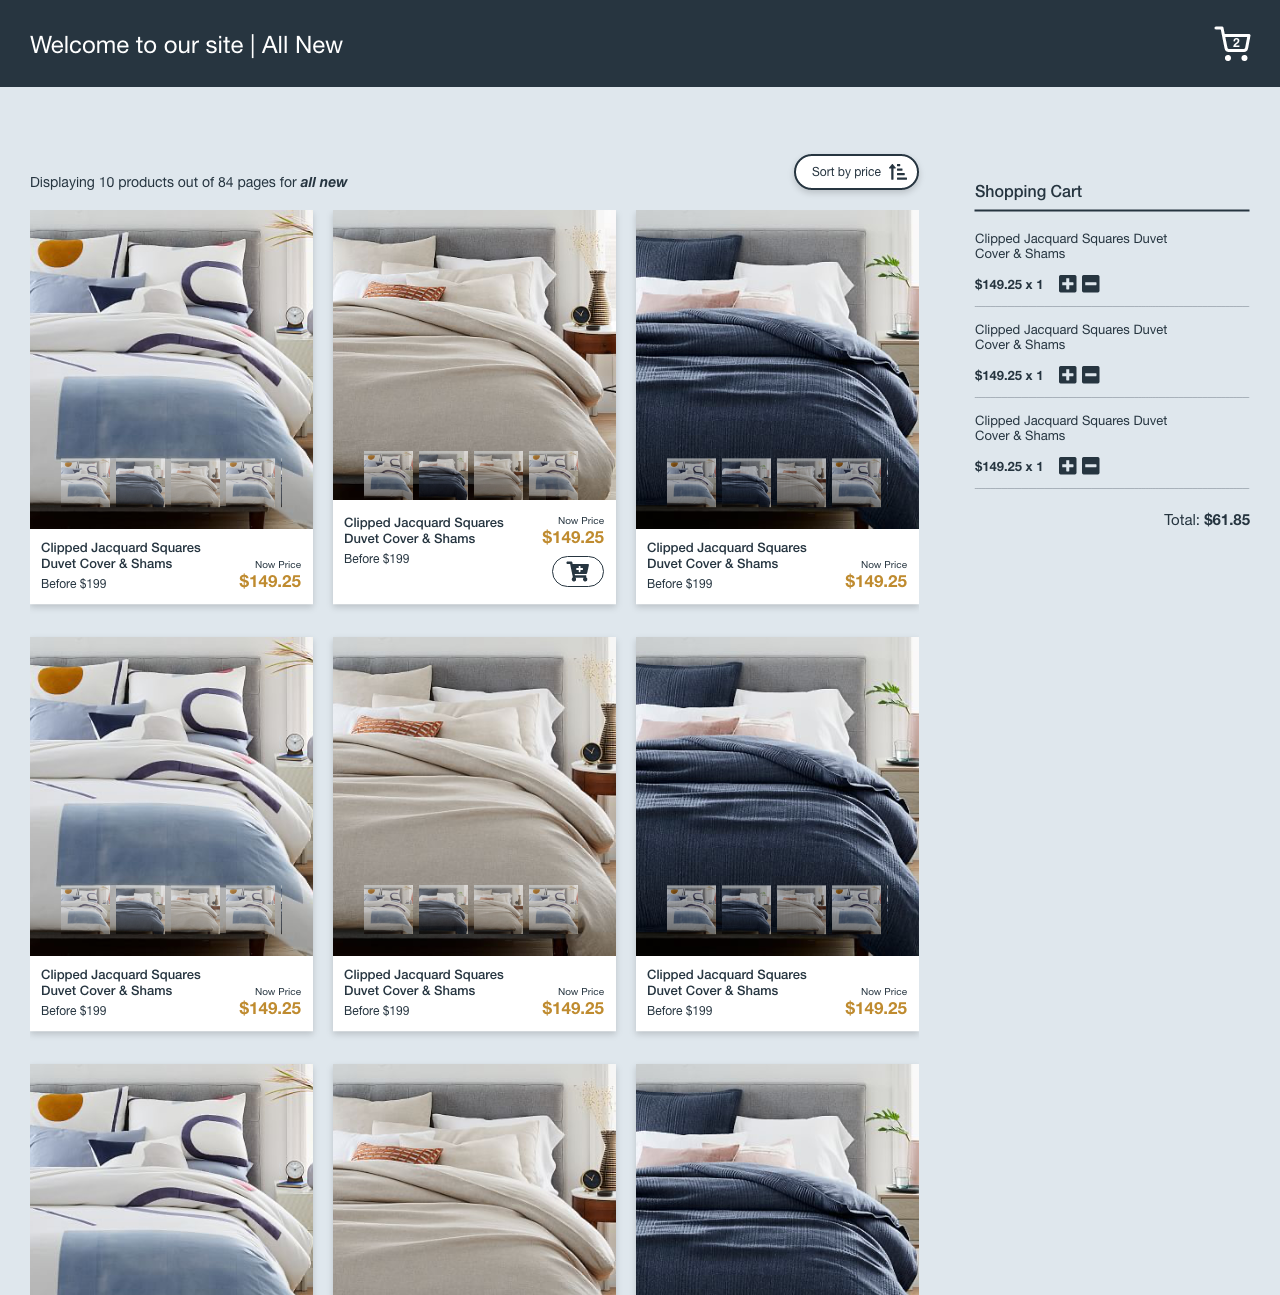
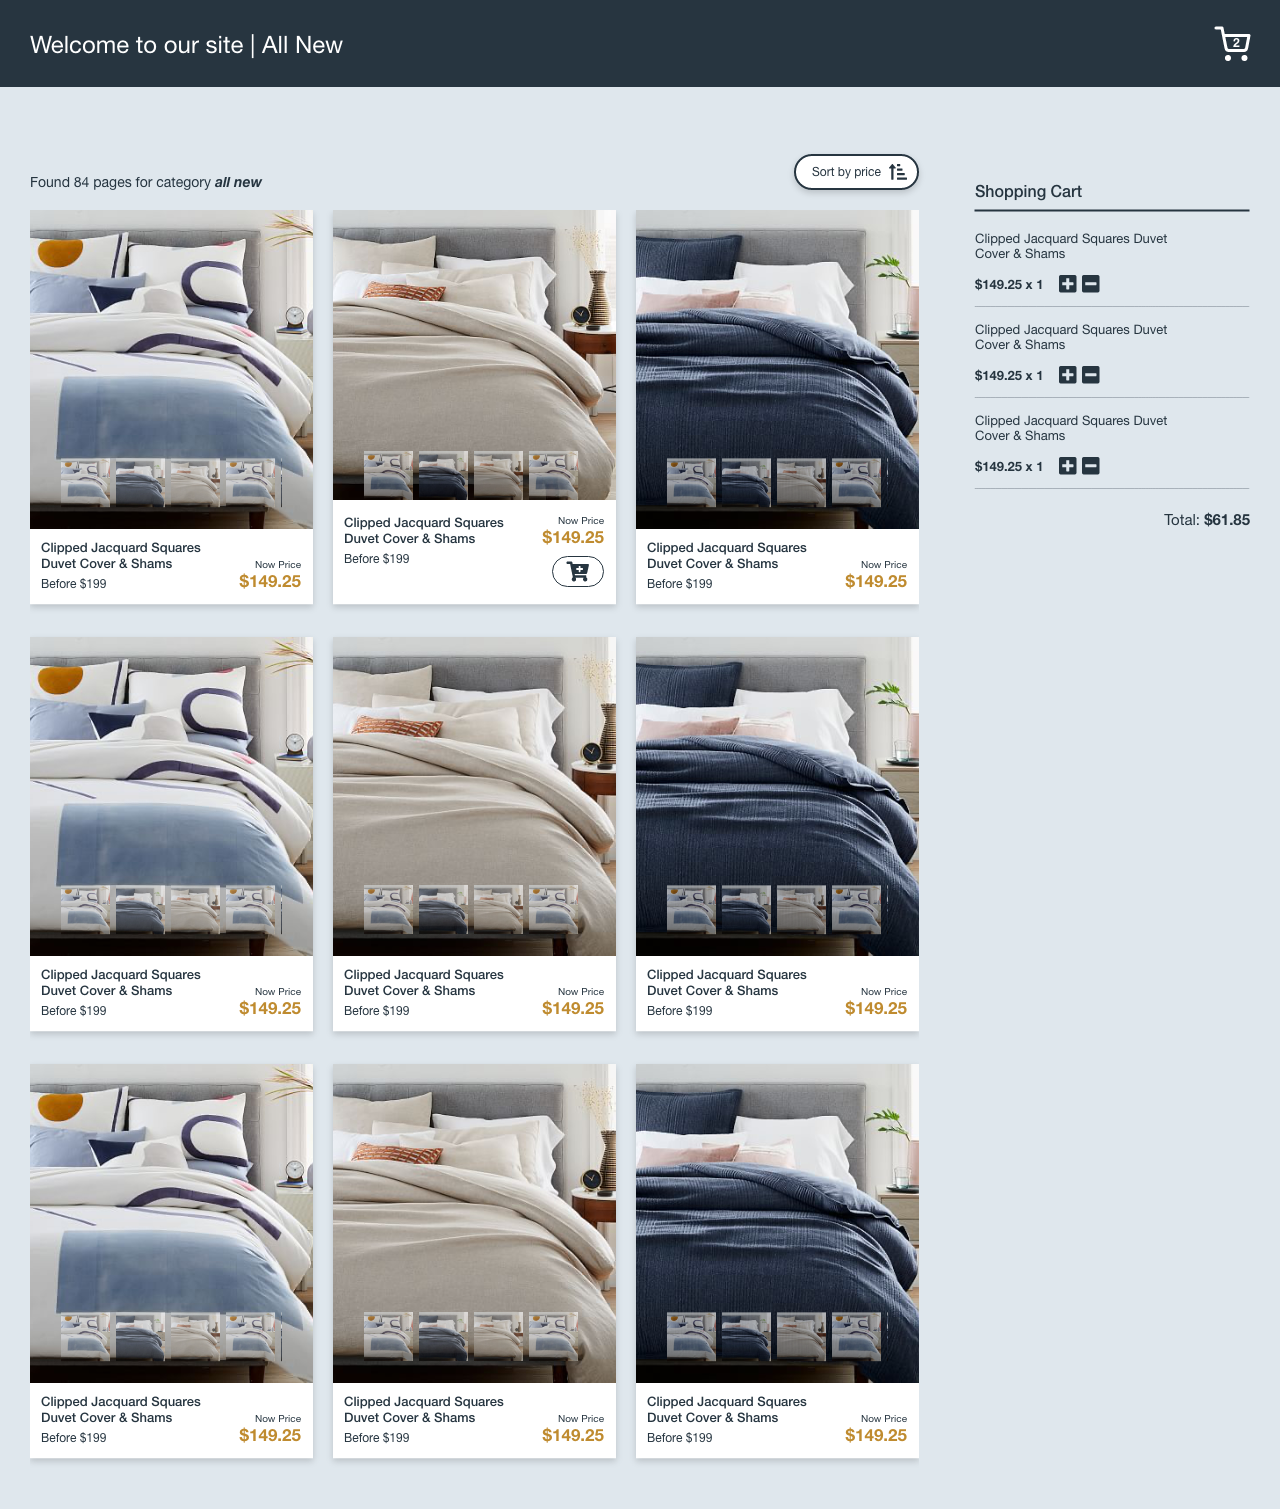
Implemented carousel and sorting

diff --git a/src/components/overview/Overview.vue b/src/components/overview/Overview.vue
@@ -1,34 +1,39 @@
 <template>
   <div>
-    <app-header :name="products.name"></app-header>
-    <div class="row product-list">
-      <div class="column col-4" v-for="item in products.groups" :key="item.id">
-        <product-card :product="item" :currency="currency"></product-card>
-      </div>
-    </div>
-    <router-view></router-view>
+    <app-header :name="category.name"></app-header>
+    <products-list
+      :products="products"
+      :currency="currency"
+      :totalPages="category.totalPages"
+      :categoryName="category.name"
+      @sortPrice="sortByPrice"
+    ></products-list>
     <shopping-cart></shopping-cart>
+    <router-view :products="products"></router-view>
   </div>
 </template>
 
 <script>
 import axios from "axios";
-import ProductCard from "../product-card/ProductCard.vue";
 import AppHeader from "../app-header/AppHeader.vue";
+import ProductsList from "../products-list/ProductsList.vue";
 import ShoppingCart from "../shopping-cart/ShoppingCart.vue";
+import ProductCarousel from "../product-carousel/ProductCarousel.vue";
 
 export default {
   data() {
     return {
+      category: [],
       products: [],
-      currency: "$"
+      currency: "$",
     };
   },
 
   components: {
-    ProductCard,
     ShoppingCart,
-    AppHeader
+    AppHeader,
+    ProductsList,
+    ProductCarousel
   },
 
   methods: {
@@ -36,11 +41,25 @@ export default {
       axios
         .get("/products")
         .then(res => {
-          this.products = res.data;
+          this.category = res.data;
+          this.products = res.data.groups;
         })
         .catch(reject =>
           console.error("The request has failed due to ", reject)
         );
+    },
+    
+    sortByPrice(sortByAsc) {
+      let products = Array.from(this.products);
+      
+      try {
+        products.sort((a, b) => a.priceRange.selling.low - b.priceRange.selling.low);
+        if(!sortByAsc) products.reverse();
+      } catch(error) {
+        console.error('Sorting failed due to ', error);
+      }
+
+      this.products = products;
     }
   },
 

diff --git a/src/components/products-list/ProductsList.vue b/src/components/products-list/ProductsList.vue
@@ -1,0 +1,83 @@
+<template>
+  <main class="row product-list">
+    <div class="col-12">
+      <div class="row products-header">
+        <p>
+          Displaying {{ products && products.length }} products for
+          <b>{{ categoryName }}</b>
+        </p>
+        <button @click="sortPrice">
+          Sort by price
+          <v-icon name="trello"></v-icon>
+        </button>
+      </div>
+      <div class="row">
+        <div class="column col-4" v-for="item in products" :key="item.id">
+          <product-card :product="item" :currency="currency"></product-card>
+        </div>
+      </div>
+    </div>
+  </main>
+</template>
+
+<script>
+import ProductCard from "../product-card/ProductCard.vue";
+
+export default {
+  props: ["products", "currency", "totalPages", "categoryName"],
+  data() {
+    return {
+      sortByAsc: false
+    }
+  },
+  components: {
+    ProductCard
+  },
+  methods: {
+    sortPrice() {
+      this.sortByAsc = !this.sortByAsc;
+      this.$emit('sortPrice', this.sortByAsc);
+    }
+  },
+};
+</script>
+
+<style lang="scss">
+@import "../../scss/_variables";
+
+.products-header {
+  padding: em(10);
+  align-items: flex-end;
+
+  p {
+    font-size: 14px;
+  }
+
+  button {
+    border: 2px solid $primary-color;
+    padding: em(8) em(12);
+    border-radius: 20px;
+    font-size: em(12);
+    display: flex;
+    box-shadow: 0 3px 6px rgba(0, 0, 0, 0.1);
+    align-items: center;
+    cursor: pointer;
+    justify-content: space-between;
+    background-color: #fff;
+    width: 120px;
+
+    &:hover {
+      background-color: $primary-color;
+      color: #fff;
+
+      .icon {
+        color: #fff;
+      }
+    }
+
+    &:focus {
+      outline: none;
+    }
+  }
+}
+</style>

diff --git a/src/components/product-carousel/ProductCarousel.vue b/src/components/product-carousel/ProductCarousel.vue
@@ -40,10 +40,11 @@
 
 <script>
 export default {
-  props: ["id", "images"],
+  props: ["id", "images", "products"],
 
   data() {
     return {
+      imgGroup: this.images,
       slideCount: 0,
       currentSlide: "",
       nextSlide: "",
@@ -52,15 +53,21 @@ export default {
     };
   },
 
+  watch: {
+    products(products) {
+      this.getProductById(products, this.id);
+    }
+  },
+
   methods: {
     closeModal() {
       this.$router.push("/");
     },
 
     createSlides() {
-      this.nextSlide = this.getNextSlide(this.slideCount, this.images);
-      this.prevSlide = this.getPrevSlide(this.slideCount, this.images);
-      this.currentSlide = this.images[this.slideCount];
+      this.nextSlide = this.getNextSlide(this.slideCount, this.imgGroup);
+      this.prevSlide = this.getPrevSlide(this.slideCount, this.imgGroup);
+      this.currentSlide = this.imgGroup[this.slideCount];
     },
 
     getNextSlide(slideCount, images) {
@@ -75,11 +82,17 @@ export default {
 
     getPrevSlide(slideCount, images) {
       return slideCount > 0 ? images[slideCount - 1] : "";
+    },
+
+    getProductById(products, id) {
+      let product = products.filter(product => id === product.id);
+      this.imgGroup = [product[0].hero, ...product[0].images];
+      this.createSlides();
     }
   },
 
   created() {
-    return this.images && this.createSlides();
+    return this.imgGroup && this.createSlides();
   },
 
   mounted() {

diff --git a/src/components/app-header/AppHeader.vue b/src/components/app-header/AppHeader.vue
@@ -15,7 +15,7 @@ export default {
 };
 </script>
 
-<style lang="scss" scoped>
+<style lang="scss">
 @import "../../scss/_variables";
 
 header {
@@ -28,24 +28,25 @@ header {
   top: 0;
   width: 100%;
   z-index: 2;
-}
-header > div {
-  display: flex;
-  justify-content: space-between;
-  align-items: center;
-  width: 1180px;
-  margin: auto;
-  padding: 0.9375em;
-  max-width: 100%;
-}
 
-h1 {
-  font-weight: 300;
-  font-size: em(24);
-}
+  > div {
+    display: flex;
+    justify-content: space-between;
+    align-items: center;
+    width: 1180px;
+    margin: auto;
+    padding: em(15);
+    max-width: 100%;
+  }
 
-.icon {
-  width: 35px;
-  color: #fff;
+  h1 {
+    font-weight: 300;
+    font-size: em(24);
+  }
+
+  .icon {
+    width: 35px;
+    color: #fff;
+  }
 }
 </style>

diff --git a/index.html b/index.html
@@ -7,6 +7,6 @@
     <title>All New Collection | West Elm</title>
   </head>
   <body>
-    <div id="app"></div>
+    <div id="app" v-cloak></div>
   </body>
 </html>

diff --git a/src/style.scss b/src/style.scss
@@ -15,6 +15,10 @@ body {
   background-color: $secondary-color;
 }
 
+#app[v-cloak] {
+  display: none;
+}
+
 a {
   color: inherit;
   text-decoration: none;
